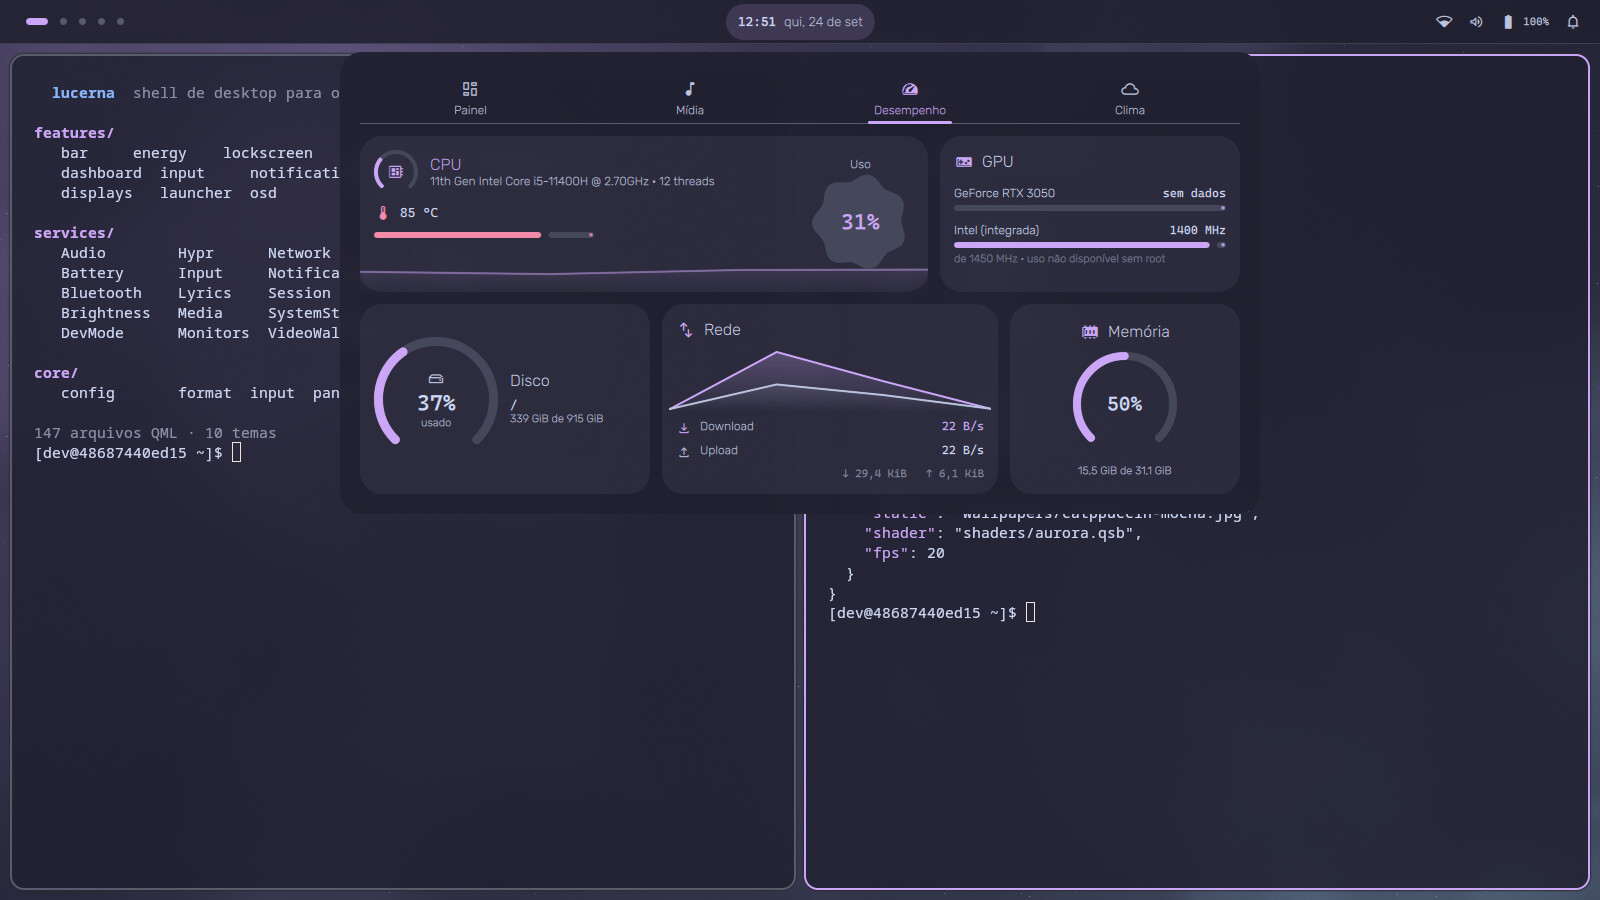
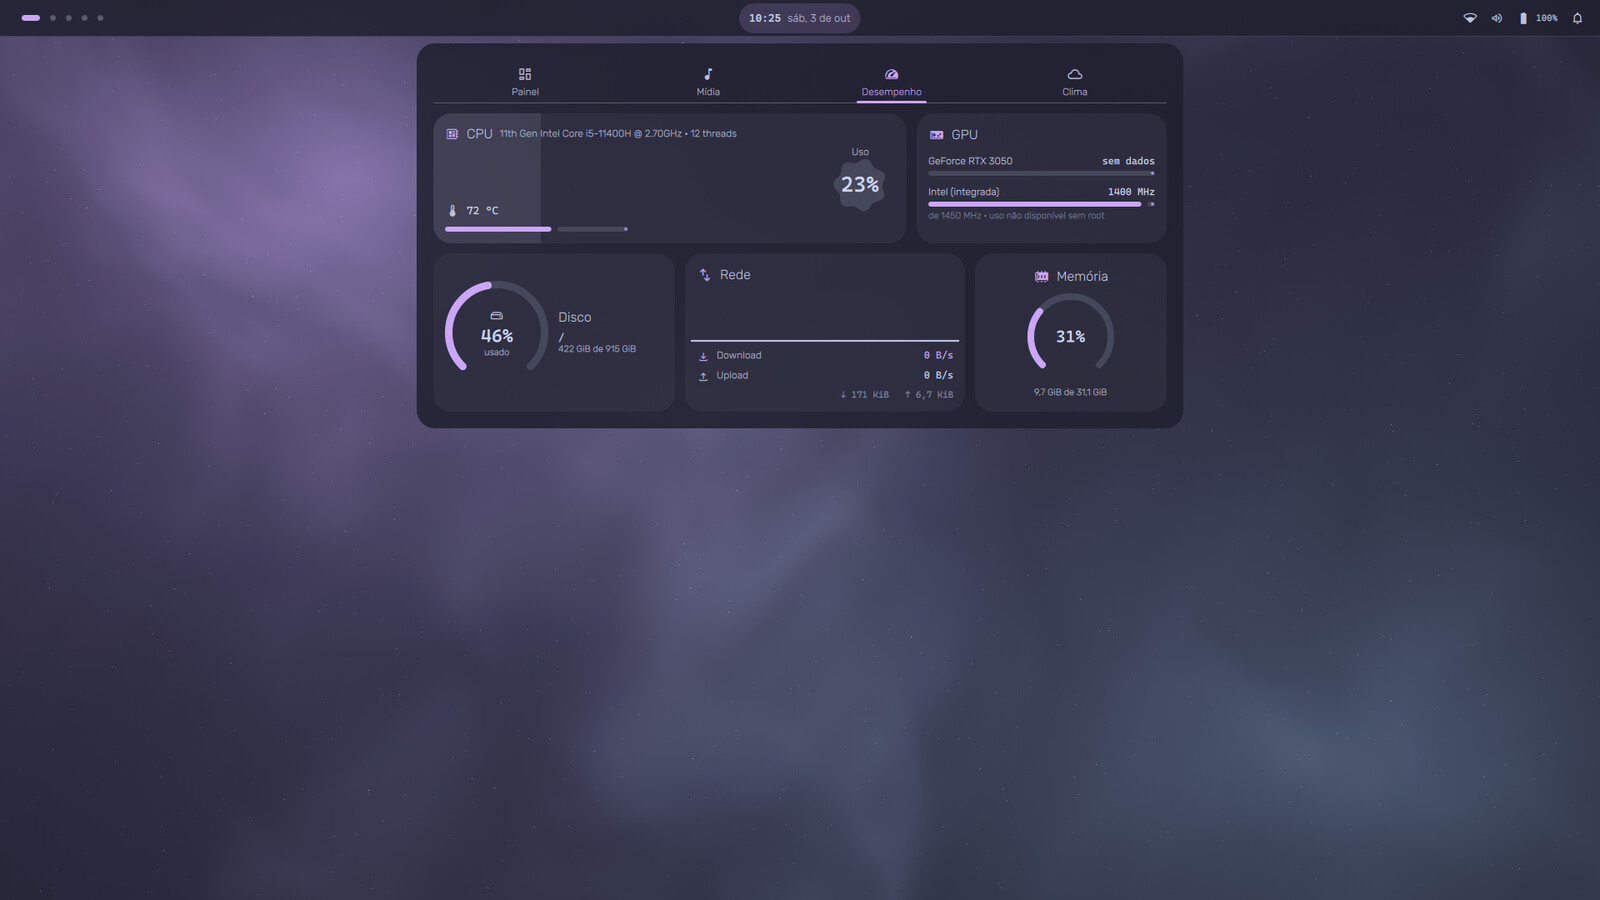
Desempenho: card da CPU com o véu do uso, a bolha menor que muda de forma e sem o histórico

diff --git a/features/dashboard/ui/PerformancePage.qml b/features/dashboard/ui/PerformancePage.qml
@@ -2,6 +2,7 @@ pragma ComponentBehavior: Bound
 
 import QtQuick
 import QtQuick.Layouts
+import Quickshell.Widgets
 import qs.core.format
 import qs.core.theme
 import qs.core.widgets
@@ -41,62 +42,67 @@ Item {
             Layout.fillWidth: true
             spacing: ThemeManager.spacing.normal
 
-            // CPU: modelo, temperatura, histórico e o uso numa forma orgânica.
+            // CPU: o card coberto da esquerda até o uso por um véu claro (a
+            // cor do texto, bem transparente), com o modelo, a temperatura e o
+            // uso por cima; a bolha atrás da % muda de forma.
             Surface {
+                id: cpuCard
+
                 Layout.fillWidth: true
                 Layout.preferredHeight: 156
-                clip: true
 
-                Sparkline {
-                    anchors.left: parent.left
-                    anchors.right: parent.right
-                    anchors.bottom: parent.bottom
-                    height: 70
-                    values: PerformanceState.cpuHistory
-                    maxValue: 1
-                    color: ThemeManager.alpha(ThemeManager.colors.accent, 0.5)
+                // O véu, recortado no formato do card, dentro da borda.
+                ClippingRectangle {
+                    anchors.fill: parent
+                    anchors.margins: cpuCard.border.width
+                    radius: cpuCard.radius - cpuCard.border.width
+                    color: "transparent"
+
+                    Rectangle {
+                        width: parent.width * Math.max(0, Math.min(1, cpuNumber.shown))
+                        height: parent.height
+                        color: ThemeManager.alpha(ThemeManager.colors.text, 0.1)
+                    }
+                }
+
+                Row {
+                    x: ThemeManager.spacing.normal + 2
+                    y: ThemeManager.spacing.normal + 2
+                    width: usage.x - x - ThemeManager.spacing.normal
+                    spacing: ThemeManager.spacing.small
+
+                    Icon {
+                        id: cpuIcon
+
+                        anchors.verticalCenter: parent.verticalCenter
+                        icon: Icons.cpu
+                        size: 18
+                        color: ThemeManager.colors.accent
+                    }
+
+                    Txt {
+                        id: cpuTitle
+
+                        anchors.verticalCenter: parent.verticalCenter
+                        text: "CPU"
+                        font.pixelSize: ThemeManager.font.large
+                        font.weight: Font.DemiBold
+                    }
+
+                    Txt {
+                        anchors.verticalCenter: parent.verticalCenter
+                        width: parent.width - cpuIcon.width - cpuTitle.width - parent.spacing * 2
+                        text: [PerformanceState.cpuModel, PerformanceState.cpuThreads].filter(x => x).join(" · ")
+                        muted: true
+                        font.pixelSize: ThemeManager.font.small + 1
+                    }
                 }
 
                 Column {
-                    anchors.left: parent.left
-                    anchors.top: parent.top
-                    anchors.margins: ThemeManager.spacing.normal + 2
+                    x: ThemeManager.spacing.normal + 2
+                    anchors.bottom: parent.bottom
+                    anchors.bottomMargin: ThemeManager.spacing.normal + 2
                     spacing: ThemeManager.spacing.small
-
-                    Row {
-                        spacing: ThemeManager.spacing.normal
-
-                        CircularGauge {
-                            width: 44
-                            height: 44
-                            thickness: 4
-                            value: PerformanceState.cpuUsage
-
-                            Icon {
-                                anchors.centerIn: parent
-                                icon: Icons.cpu
-                                size: 18
-                                color: ThemeManager.colors.accent
-                            }
-                        }
-
-                        Column {
-                            anchors.verticalCenter: parent.verticalCenter
-
-                            Txt {
-                                text: "CPU"
-                                color: ThemeManager.colors.accent
-                                font.pixelSize: ThemeManager.font.large
-                                font.weight: Font.DemiBold
-                            }
-
-                            Txt {
-                                text: [PerformanceState.cpuModel, PerformanceState.cpuThreads].filter(x => x).join(" · ")
-                                muted: true
-                                font.pixelSize: ThemeManager.font.small + 1
-                            }
-                        }
-                    }
 
                     Row {
                         spacing: ThemeManager.spacing.small
@@ -122,41 +128,39 @@ Item {
                     }
                 }
 
-                Column {
-                    anchors.right: parent.right
-                    anchors.verticalCenter: parent.verticalCenter
-                    anchors.rightMargin: ThemeManager.spacing.large
-                    spacing: 2
+                Txt {
+                    anchors.horizontalCenter: usage.horizontalCenter
+                    anchors.bottom: usage.top
+                    text: "Uso"
+                    muted: true
+                    font.pixelSize: ThemeManager.font.small + 1
+                }
 
-                    Txt {
-                        anchors.horizontalCenter: parent.horizontalCenter
-                        text: "Uso"
-                        muted: true
-                        font.pixelSize: ThemeManager.font.small + 1
+                Item {
+                    id: usage
+
+                    anchors.right: parent.right
+                    anchors.rightMargin: ThemeManager.spacing.large + 4
+                    anchors.verticalCenter: parent.verticalCenter
+                    anchors.verticalCenterOffset: 8
+                    width: 64
+                    height: 64
+
+                    Blob {
+                        anchors.fill: parent
+                        morphing: true
+                        pulse: PerformanceState.cpuUsage
+                        color: ThemeManager.colors.track
+                        spinning: true
+                        spinDuration: 30000
                     }
 
-                    Item {
-                        width: 96
-                        height: 96
-
-                        Blob {
-                            anchors.fill: parent
-                            lobes: 7
-                            amplitude: 0.05
-                            pulse: PerformanceState.cpuUsage
-                            color: ThemeManager.colors.track
-                            spinning: true
-                            spinDuration: 30000
-                        }
-
-                        Txt {
-                            anchors.centerIn: parent
-                            text: Format.percent(cpuNumber.shown)
-                            mono: true
-                            color: ThemeManager.colors.accent
-                            font.pixelSize: ThemeManager.font.large + 6
-                            font.weight: Font.DemiBold
-                        }
+                    Txt {
+                        anchors.centerIn: parent
+                        text: Format.percent(cpuNumber.shown)
+                        mono: true
+                        font.pixelSize: ThemeManager.font.large + 10
+                        font.weight: Font.DemiBold
                     }
                 }
             }

diff --git a/tests/systemstats.test.js b/tests/systemstats.test.js
@@ -3,16 +3,15 @@
 function run(t) {
     const S = t.SystemStats;
 
-    // Nenhuma das funções abaixo é pura: parseStat grava lastCpu/cpuHistory/
-    // cpuUsage; parseMeminfo grava memTotal/memUsed/swapTotal/swapUsed;
-    // parseNetdev grava rxTotal/txTotal/lastNet; parseCpuinfo grava cpuModel/
-    // cpuThreads; pickTempSensor grava tempPath; parseGpus grava gpus; parseDf
-    // grava disks. Guarda o estado de antes para restaurar no fim (a suíte
-    // roda no mesmo processo que as seguintes, e o singleton pode já ter
-    // valores reais lidos pelo FileView antes deste teste rodar).
+    // Nenhuma das funções abaixo é pura: parseStat grava lastCpu/cpuUsage;
+    // parseMeminfo grava memTotal/memUsed/swapTotal/swapUsed; parseNetdev
+    // grava rxTotal/txTotal/lastNet; parseCpuinfo grava cpuModel/cpuThreads;
+    // pickTempSensor grava tempPath; parseGpus grava gpus; parseDf grava
+    // disks. Guarda o estado de antes para restaurar no fim (a suíte roda no
+    // mesmo processo que as seguintes, e o singleton pode já ter valores reais
+    // lidos pelo FileView antes deste teste rodar).
     const original = {
         lastCpu: S.lastCpu,
-        cpuHistory: S.cpuHistory,
         cpuUsage: S.cpuUsage,
         memTotal: S.memTotal,
         memUsed: S.memUsed,
@@ -37,12 +36,10 @@ function run(t) {
 
     t.test("systemstats: uso de CPU entre duas leituras do /proc/stat", () => {
         S.lastCpu = null;
-        S.cpuHistory = [];
         S.parseStat("cpu  100 0 100 700 100 0 0 0 0 0\ncpu0 1 2 3 4\n");
         t.eq(S.lastCpu, { idle: 800, total: 1000 });
         S.parseStat("cpu  200 0 200 1300 300 0 0 0 0 0\n");
         t.near(S.cpuUsage, 0.2, 1e-9);
-        t.eq(S.cpuHistory.length, 1);
     });
 
     t.test("systemstats: memória e swap do /proc/meminfo", () => {
@@ -94,7 +91,6 @@ function run(t) {
     });
 
     S.lastCpu = original.lastCpu;
-    S.cpuHistory = original.cpuHistory;
     S.cpuUsage = original.cpuUsage;
     S.memTotal = original.memTotal;
     S.memUsed = original.memUsed;
@@ -110,7 +106,7 @@ function run(t) {
     S.disks = original.disks;
 
     t.test("systemstats: estado original restaurado", () => {
-        t.eq([S.lastCpu, S.cpuHistory, S.cpuUsage, S.memTotal, S.memUsed, S.swapTotal, S.swapUsed, S.rxTotal, S.txTotal, S.lastNet, S.cpuModel, S.cpuThreads, S.tempPath, S.gpus, S.disks],
-             [original.lastCpu, original.cpuHistory, original.cpuUsage, original.memTotal, original.memUsed, original.swapTotal, original.swapUsed, original.rxTotal, original.txTotal, original.lastNet, original.cpuModel, original.cpuThreads, original.tempPath, original.gpus, original.disks]);
+        t.eq([S.lastCpu, S.cpuUsage, S.memTotal, S.memUsed, S.swapTotal, S.swapUsed, S.rxTotal, S.txTotal, S.lastNet, S.cpuModel, S.cpuThreads, S.tempPath, S.gpus, S.disks],
+             [original.lastCpu, original.cpuUsage, original.memTotal, original.memUsed, original.swapTotal, original.swapUsed, original.rxTotal, original.txTotal, original.lastNet, original.cpuModel, original.cpuThreads, original.tempPath, original.gpus, original.disks]);
     });
 }

diff --git a/services/SystemStats.qml b/services/SystemStats.qml
@@ -26,7 +26,6 @@ Singleton {
     property int cpuThreads: 0
     property real cpuUsage: 0
     property real cpuTemp: NaN
-    property var cpuHistory: []
 
     // Memória, em bytes
     property real memTotal: 0
@@ -82,7 +81,6 @@ Singleton {
         const total = fields.reduce((a, b) => a + b, 0);
         if (lastCpu && total > lastCpu.total) {
             cpuUsage = Math.max(0, Math.min(1, 1 - (idle - lastCpu.idle) / (total - lastCpu.total)));
-            cpuHistory = push(cpuHistory, cpuUsage);
         }
         lastCpu = { idle: idle, total: total };
     }

diff --git a/features/dashboard/state/PerformanceState.qml b/features/dashboard/state/PerformanceState.qml
@@ -15,7 +15,6 @@ Singleton {
     readonly property string cpuThreads: SystemStats.cpuThreads ? `${SystemStats.cpuThreads} threads` : ""
     readonly property real cpuUsage: SystemStats.cpuUsage
     readonly property string cpuUsageText: Format.percent(cpuUsage)
-    readonly property var cpuHistory: SystemStats.cpuHistory
     readonly property bool hasTemp: isFinite(SystemStats.cpuTemp)
     readonly property string cpuTempText: hasTemp ? `${Math.round(SystemStats.cpuTemp)} °C` : "—"
     // Escala de 30 a 100 °C para a barra de temperatura.
